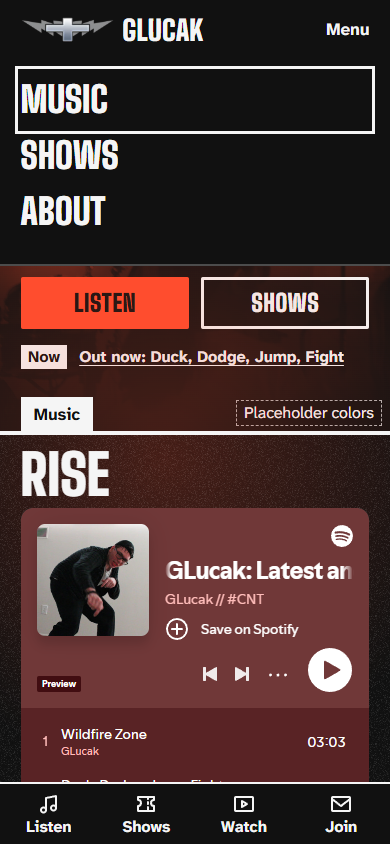
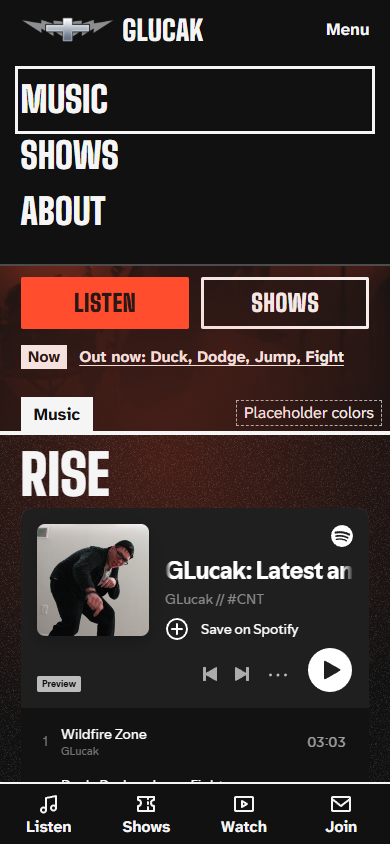
IDENTITY guess era (prototype only) and dark Spotify embed in every era (D35)
?era=identity-guess: indigo/violet sampled from the IDENTITY smart-link art, labelled
'our guess', never in src/eras/. All contrast checks pass in all three eras. Spotify
theme=0 (amends D19). Owner sheet: prototype/shots/hero-pick-identity-guess.png.
Boss now recommends hero C (A on phones, B from 900px). Local file servers in
check.mjs and hero-pick.mjs refuse paths outside prototype/.

Changed region(s): [[0.0308, 0.5853, 0.9538, 0.9242]]

diff --git a/prototype/index.html b/prototype/index.html
@@ -87,7 +87,7 @@
             <!-- Exactly 352px, reserved before the embed loads. The note sits under the iframe: seen only while it loads or if it's blocked. -->
             <div class="player-box">
               <p class="player-note">Loading the Spotify player. If it doesn't appear, use <strong>Play full songs on Spotify</strong> below.</p>
-              <iframe class="player" title="GLucak playlist on Spotify" src="https://open.spotify.com/embed/playlist/0D45boIc9xWAdDjz1uTDRo?utm_source=generator" width="100%" height="352" loading="lazy" allow="autoplay; clipboard-write; encrypted-media; fullscreen; picture-in-picture"></iframe>
+              <iframe class="player" title="GLucak playlist on Spotify" src="https://open.spotify.com/embed/playlist/0D45boIc9xWAdDjz1uTDRo?utm_source=generator&amp;theme=0" width="100%" height="352" loading="lazy" allow="autoplay; clipboard-write; encrypted-media; fullscreen; picture-in-picture"></iframe>
             </div>
             <p class="under-player">
               <a class="btn btn-line btn-small" href="https://open.spotify.com/playlist/0D45boIc9xWAdDjz1uTDRo" rel="noopener">Play full songs on Spotify</a>
@@ -216,7 +216,7 @@
         <button class="motion-btn" id="motion" type="button" aria-pressed="true">Motion: on</button>
         <p class="legal">&copy; <span id="year">2026</span> GLucak. <a class="pending" href="#footer" title="Privacy page comes with the build">Privacy</a></p>
       </div>
-      <p class="ph-note">Prototype. Colors are the <span id="era-name">Placeholder</span> era, not IDENTITY. Photos, releases and quotes are Gabe's (quotes pending his OK); shows and cover art are placeholders.</p>
+      <p class="ph-note">Prototype. <span id="era-line">Colors are the <span id="era-name">Placeholder</span> era, not IDENTITY.</span> Photos, releases and quotes are Gabe's (quotes pending his OK); shows and cover art are placeholders.</p>
     </div>
   </footer>
 

diff --git a/prototype/data.js b/prototype/data.js
@@ -18,6 +18,23 @@ window.GL = {
       texture: 'assets/grain.png',
       word: 'Placeholder B',
     },
+    // A GUESS, not Gabe's colors (2026-11-05): sampled from the IDENTITY smart-link art (wingsmusic.lnk.to/IDENTITY,
+    // its og:image): Gabe in deep blue light, a violet glow, white type. bg is the art's indigo field, text its white
+    // type, accent its violet light lifted to pass 3:1 on bg. Same roles as every era. Replaced when Gabe's art arrives.
+    'identity-guess': {
+      name: 'IDENTITY guess',
+      colors: { bg: '#08044a', text: '#f6f5ff', accent: '#a866ff', 'accent-text': '#08044a', muted: '#bab6e6' },
+      art: 'assets/cover.svg',
+      texture: 'assets/grain.png',
+      word: 'IDENTITY',
+    },
+  },
+  // Prototype-only labels, keyed by era slug (never part of an era file). Shown so nobody mistakes a guess for Gabe's.
+  eraLabels: {
+    'identity-guess': {
+      chip: 'IDENTITY colors: our guess from the smart-link art',
+      note: 'Colors are our guess at IDENTITY, sampled from the smart-link art, not Gabe’s.',
+    },
   },
   shows: [
     { date: 'MMM 00', time: '0:00 PM', type: 'show', venue: 'Venue name', city: 'City', link: 'https://example.com/placeholder', with: 'Guest name' },

diff --git a/prototype/styles.css b/prototype/styles.css
@@ -252,7 +252,9 @@ img.duo { filter: url('#duo'); }
 .now { display: flex; align-items: center; gap: var(--space-s); min-height: 48px; margin-top: 0.25rem; font-weight: 700; font-size: var(--step--1); }
 .now a { display: inline-flex; align-items: center; min-height: 48px; text-underline-offset: 3px; }
 .now-tag { padding: 0 0.45rem; background: var(--text); color: var(--bg); font-size: var(--step--1); line-height: 1.5; font-weight: 700; flex: none; }
+/* Long era labels (the IDENTITY guess) wrap right of the Music tab instead of running under it. */
 .hero-chip { bottom: 0.35rem; }
+.hero-chip.is-long { max-width: calc(100% - 9rem); line-height: 1.3; text-align: right; }
 
 /* Hero B: photo in the name, at his own break. The slot stands taller than the letters. */
 html[data-hero='b'] .hero-photo { display: none; }

diff --git a/prototype/app.js b/prototype/app.js
@@ -33,7 +33,15 @@
     ['duoR', 'duoG', 'duoB'].forEach((id, i) => $(`#${id}`).setAttribute('tableValues', `${lo[i].toFixed(3)} ${hi[i].toFixed(3)}`));
     $('#era-name').textContent = era.name;
   }
-  applyEra(GL.eras[q.get('era')] || GL.eras.placeholder);
+  const eraSlug = Object.hasOwn(GL.eras, q.get('era') ?? '') ? q.get('era') : 'placeholder';
+  applyEra(GL.eras[eraSlug]);
+  // Prototype-only: a guessed era says so on the hero chip and in the footer note.
+  const label = GL.eraLabels[eraSlug];
+  if (label) {
+    $('.hero-chip').textContent = label.chip;
+    $('.hero-chip').classList.add('is-long');
+    $('#era-line').textContent = label.note;
+  }
 
   /* ---------- Shows ---------- */
   const action = (s) => {

diff --git a/DESIGN.md b/DESIGN.md
@@ -145,6 +145,49 @@ MSP program group." where their stills appear). The About page repeats the full 
 - **Grain:** `era.texture` tiled on bands, footer and poster; still, never animated. If `texture` is null, use the site default
   `grain.png` (128px tile, 15 KB).
 
+### 3c. IDENTITY guess era (2026-11-05): **a guess, not Gabe's colors**
+Prototype only: `?era=identity-guess` (in `prototype/data.js`, **not** in `src/eras/`). It lets the owner see the site in
+IDENTITY's light before Gabe's real art and colors arrive (about Nov 30); then this era is deleted, not promoted. In this era the
+hero chip reads "IDENTITY colors: our guess from the smart-link art" and the footer note says the same.
+
+**Source:** the og:image of `https://wingsmusic.lnk.to/IDENTITY` (Linkfire `artwork-600x315.jpg` and `-440x440.jpg`, read only,
+kept out of the repo). Gabe's face and shoulders in deep blue light, a violet-magenta glow top right, white IDENTITY type, Logo D
+under it. Dominant colors (k-means, 8 clusters, 440px square): black `#000001` 27%, indigo `#040243` 21%, `#090359` 17%,
+ultramarine `#18078d` 10%, violet `#3b07ba` 10%, near-black blue `#02041c` 8%, the glow `#8312c8` 5%, the type `#dfdbed` /
+`#f6f6f6` 2%. Hues 240-255 hold about 55% of the picture.
+
+| Role | Value | From the art |
+|---|---|---|
+| `bg` | `#08044a` | The indigo field (between `#040243` and `#090359`). Luminance 0.0063: dark enough for Logo D (D25) |
+| `text` | `#f6f5ff` | The white IDENTITY type, a touch cool |
+| `accent` | `#a866ff` | The violet glow (`#8312c8`, hue 277, and `#3b07ba`, hue 258), lifted to hue 266 and lightened until it passes 3:1 on `bg` (the art's own violets reach only 1.7 to 2.6:1) |
+| `accent-text` | `#08044a` | `bg`, as in every era |
+| `muted` | `#bab6e6` | Lavender grey, between the type and the field |
+| `bg-2` (derived) | `#191557` | `text` 7% into `bg` |
+| `line` (derived) | `#464379` | `text` 26% into `bg` |
+| Duotone dark / light (derived) | `#08044a` / `#9359e7` | `bg`; the ceiling stops at 87% toward `accent` (peak 4.01:1 against `text`) |
+
+No new roles, ceiling rule unchanged, covers and Dave Bahm's art never tinted. **Contrast** (same maths as `app.js`, mark
+composited from `mark-identity-300.webp`): text/bg 17.24, text/bg-2 15.14, muted/bg 9.69, muted/bg-2 8.51, muted on the player
+box 5.40; **Listen** (accent-text on accent) 5.33, Listen's fill against the page (accent/bg) 5.33, on bg-2 4.68; **Now tag, tabs, poster
+ink on paper** (bg on text, no accent involved) 17.24; **poster Tickets**: label 5.33, fill against the paper 3.23 (and its 3px
+`bg` border 17.24); duotone peak 4.01 against text. **Logo D wings** (65% grey): on bg median 5.48:1 (darkest tenth 4.42), on
+bg-2 5.19 (4.24), against 5.68 / 5.24 on the placeholder era; bg against black 1.13 (the D25 test allows 1.5). All pass the
+era-file test (`test/eras.test.js` rules) and `prototype/check.mjs` (section 12).
+
+**How it looks (my read of `prototype/shots/hero-pick-identity-guess.png`):** energetic, not muddy, and close to the art. The
+indigo ground, white type and violet buttons read as IDENTITY at a glance, and it feels cooler and more "night" than the
+red-orange placeholder. **Hero B is the stronger hero in this light:** indigo page, violet photo in the slot, white name: it is
+nearly the cover. **Hero A goes flat:** the Kealey photo is high-key, so most of it lands near the capped peak, and violet at
+that luminance (0.19) looks lighter and more pastel than red-orange did. Add the violet glow over it and the hero becomes a
+lavender-violet field with his face as a ghost at the top. The text still passes (5.33:1), and it isn't muddy, but A has
+less depth here than in the placeholder era, where the photo still read as a photo. A darker accent wouldn't help: the ceiling,
+not the hue, sets the peak's lightness. If Gabe's real colors are also blue-violet, that's a point for B. A print-style two-colour
+treatment (the Desktop's `docs/review/photo-treatments/`) with harder blacks would fix A's flatness better than the smooth
+duotone. **Spotify's embed is always dark-themed** (`theme=0`, Spotify's dark grey) in every era (D35, amends D19). The
+cover-derived colour follows Gabe's playlist cover, not the era, so it can clash with any palette; the dark theme sits on every
+era's dark `bg`.
+
 ## 4. Field names (shared with the Desktop: keep this section in step with `src/`)
 > **Single source for these names.** They match `src/lib/shows.js`, `src/eras/placeholder.json` and `src/data/shows.json` at
 > 7a2e937. Release and IDENTITY fields below are agreed (D18) but not in `src/` yet.
@@ -219,7 +262,7 @@ with focus moved in, Escape and link tap close it. Shop slot: one nav entry, off
   linked to that release's `link`. Long titles wrap to two lines inside the 48px line (measured: the player stays put).
 
 **1. RISE, tab Music.** Phrase at 3.5rem on phones; huge in a left column from 900px. The official embed at exactly **352px**,
-full column width, with its height reserved. Under it: **Play full songs on Spotify** as a real button (2026-11-05):
+full column width, with its height reserved, always dark-themed (`theme=0`, D35). Under it: **Play full songs on Spotify** as a real button (2026-11-05):
 `btn btn-line btn-small`, 48px tall, display face 1.25rem, full width under 700px, natural width beside the link from 700px. It's
 the playlist link: logged-out fans, most of them in Instagram's in-app browser, get 30-second previews in the embed, and this is
 the way to full songs, so it earns a button. Outline, not solid: the accent stays on Listen. Then **Listen everywhere**, a text
@@ -380,6 +423,7 @@ output, http(s) links only, with the `<script>` and `' OR 1=1 --` tests.
 | Text over the **real** photos, from pixels (99.5th percentile background, text hidden) | A: name **5.39:1**, slogan **6.19:1** (need 3), Menu **10.84:1**, Now **13.63:1** (need 4.5; the real two-line Now line). B: name 16.85, slogan 15.90, Menu 17.32, Now 14.06. A on the second era: name 5.34, slogan 5.95, Menu 10.35, Now 11.37. PUSH PAST FEAR heading over the Paslier still: 7.68:1 |
 | Tap targets, text size | 36 targets, none under 48px (Spotify button 48px, both quote credits 48px). Smallest text 16px. No sideways scroll at 320, 390, 1280 with the long title and quotes |
 | Solid pairs, both eras | Lowest 5.71:1 |
+| **IDENTITY guess era** (`?era=identity-guess`, section 3c; **a guess, not Gabe's colors**) | Text over the real photo, hero A at 390x660: name **5.33:1**, slogan **6.10**, brand 6.23 (need 3); Menu **10.53**, Now **13.43** (need 4.5). Solid pairs (CHECK 3e): lowest solid button (Listen) 5.33, Tickets on poster 5.33, muted on footer 8.49. Tabs and Now tag 17.24. Logo D wings on bg 5.48:1, on bg-2 5.19:1. Duotone peak `#9359e7`, 4.01:1 against text. All other checks unchanged (same layout). Sheet: `prototype/shots/hero-pick-identity-guess.png` (`node prototype/tools/hero-pick.mjs --era identity-guess`) |
 | Home height at 390x660 | **A 3812px = 5.61 without the prototype note after D33's artists line** (3px over the cap 5.6; accepted, since the collaborator credit is never dropped; the built site measures 5.25). Before D33: A 3795px = 5.75 screens, 5.58 without the note (cap 5.6, boss 2026-11-05). B 5.84 / 5.67. Empty shows 5.60 / 5.43. With both real quotes (R1, L2), the real release title and Now line. Committed baseline was 5.21 / 5.07 (2026-11-03 report; the 5.13 in the old table was an earlier run). What added height: the IDENTITY block (date, pre-save, mark beside the word), both quotes (132 and 76px, compact style), the Spotify button and the footer credits; what took it back: D23 (mission line gone), the mark beside IDENTITY instead of above (about 60px), the compact quote (tag in the first line, credit inline) |
 | Reduced motion | Emulated with `Emulation.setEmulatedMedia`: `document.getAnimations()` empty, headings visible. Footer switch: also empty. The IDENTITY count is text, not motion |
 | Flash | **By construction:** the only loop is one 24s opacity and transform drift (opacity .68 to .88), so it cannot reach 3 flashes a second. Supporting sample only, too slow to detect a 3 Hz flash on its own: 87 and 95 frames over 26s, largest change in mean luminance 0.0001 against WCAG's 0.10, on both heroes with the real photos. Most moving things on screen at once, brisk scroll: 1 |
@@ -390,7 +434,11 @@ output, http(s) links only, with the `<script>` and `' OR 1=1 --` tests.
 ## 13. Not verified
 - **The hero pick.** Both heroes run on the real photo; the owner picks from `prototype/shots/hero-pick.png` (D14).
 - **The duotone on IDENTITY's real colors.** All photo tests ran on the placeholder era (and the second one). The ceiling holds by
-  construction in any era, but how dark the photos look depends on the real accent.
+  construction in any era, but how dark the photos look depends on the real accent. **Partly tried on the IDENTITY guess era**
+  (section 3c, blue-violet from the smart-link art): it passes, but it flattens hero A. Re-run on Gabe's real colors.
+- **The IDENTITY guess era is a guess.** Its colors come from a 600x315 / 440x440 JPEG of the smart link's art, not from Gabe's
+  files or his palette, and the accent was lifted to pass contrast, so it is brighter than any violet in the art. Never ship it
+  or copy it to `src/eras/`.
 - **Logo D at 16px** (browser tab) was seen only as a 32px PNG. A cross-only file from Gabe or Dave would be crisper.
 - **The "From Gabe" quotes are real words but not yet approved** (R1 and L2, marked "Pending Gabe's OK" in the prototype; the chip
   never ships). Real wrap measured (section 5): R1, 86 characters, 3 lines plus credit at 390 (132px), 4 at 320 (163px); L2, 22

diff --git a/HANDOFF.md b/HANDOFF.md
@@ -41,8 +41,8 @@
   `docs/review/photo-treatments/` (claimed). Proposals for the Laptop / owner, not yet in the site.
 - **Laptop (2026-11-05):** boss agent runs each round (plans, briefs the designer / copywriter, reviews). Done, all
   boss-approved: real Spotify embed (D19), Home copy `docs/copy/home.md` (D21, D23), prototype on Gabe's real photos +
-  Logo D + type lock (D25, D27, ddf5d60), security review of the edit screen (fixed in 620df1c), copy for Music, Shows, About (D29, D31), D33. **Claimed:** `prototype/` + DESIGN.md section 3 (IDENTITY guess era).
-  **Owner:** pick hero A or B from `prototype/shots/hero-pick.png` (boss leans A on phones); send Gabe the 9 questions (7 for launch)
+  Logo D + type lock (D25, D27, ddf5d60), security review of the edit screen (fixed in 620df1c), copy for Music, Shows, About (D29, D31), D33, IDENTITY guess era + dark Spotify embed (D35). Nothing claimed.
+  **Owner:** pick the hero from `prototype/shots/hero-pick.png` and `hero-pick-identity-guess.png` (boss now recommends C: A on phones, B from 900px; B if one layout only); send Gabe the 9 questions (7 for launch)
   at the bottom of `docs/copy/home.md`. Laptop next: boss review of the Desktop's port at 390 + 1280; then the hero pick and Gabe's answers go in.
   Local clone on the Laptop: `C:\Users\alexm\projects\GLucak-Website` (no `V:\`; Riverside is at
   `C:\Users\alexm\projects\Riverside-Website`).

diff --git a/DECISIONS.md b/DECISIONS.md
@@ -98,3 +98,11 @@ Desktop uses even numbers, Laptop odd. Format: number, date, question, ruling, w
   block and the Music release strip, exactly as Spotify lists them ("GLucak, J-BOY"), body face, `muted`; solo
   releases have none. The Now line shows the title only ("Out now: Duck, Dodge, Jump, Fight"); the credit is right
   below it. **Why:** Spotify is the one source, and the collaborator stays credited where the release is shown.
+- **D35** (2026-11-05, Laptop boss): IDENTITY guess era and the Spotify theme. **Ruling:** `?era=identity-guess`
+  (DESIGN.md section 3c) is approved as a prototype-only preview, labelled "our guess" on the chip, footer and sheet;
+  it never enters `src/eras/` and is deleted when Gabe's real colours arrive. The Spotify embed uses `theme=0` (dark)
+  in every era (amends D19). Hero recommendation to the owner moves from A to C (A on phones, B from 900px), or B if
+  one layout only. **Why:** the owner can judge both heroes in IDENTITY's likely light before Nov 30 without anything
+  passing a guess off as Gabe's colours. The cover-derived player colour follows his playlist cover, not the era, and
+  clashed (maroon on violet); dark grey fits every era's dark `bg`. B works in any palette because no text sits over
+  the photo; A flattens in cool colours under the brightness cap.
